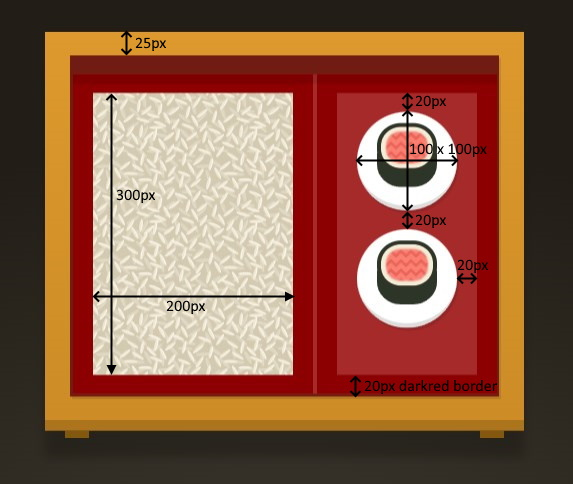
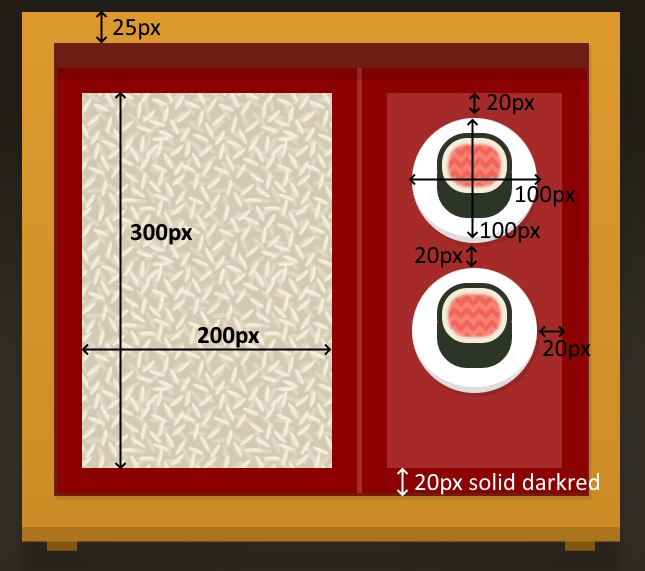
remove 3d transforms on box-model exercise

diff --git a/exercises/box-model/elements.css b/exercises/box-model/elements.css
@@ -1,8 +1,6 @@
 .table-wrapper {
     display: inline-block;
-    transform: rotateX(20deg);
     min-height: 120px;
-    transform-origin: bottom;
     z-index: 5;
     position: relative;
     margin: 10px 20px 30px 20px;
@@ -10,7 +8,6 @@
 }
 
 .table-content {
-    transform-style: preserve-3d;
     margin: 0 auto;
     display: inline-block;
     z-index: 6;
@@ -85,6 +82,7 @@ bento:before {
 plate {
     display: block;
     border-bottom: solid 5px #ddd;
+    box-sizing: border-box;
     background: white;
     border-radius: 50%;
     z-index: 1;

diff --git a/exercises/solutions/box-model/elements.css b/exercises/solutions/box-model/elements.css
@@ -1,8 +1,6 @@
 .table-wrapper {
     display: inline-block;
-    transform: rotateX(20deg);
     min-height: 120px;
-    transform-origin: bottom;
     z-index: 5;
     position: relative;
     margin: 10px 20px 30px 20px;
@@ -10,7 +8,6 @@
 }
 
 .table-content {
-    transform-style: preserve-3d;
     margin: 0 auto;
     display: inline-block;
     z-index: 6;
@@ -85,6 +82,7 @@ bento:before {
 plate {
     display: block;
     border-bottom: solid 5px #ddd;
+    box-sizing: border-box;
     background: white;
     border-radius: 50%;
     z-index: 1;
